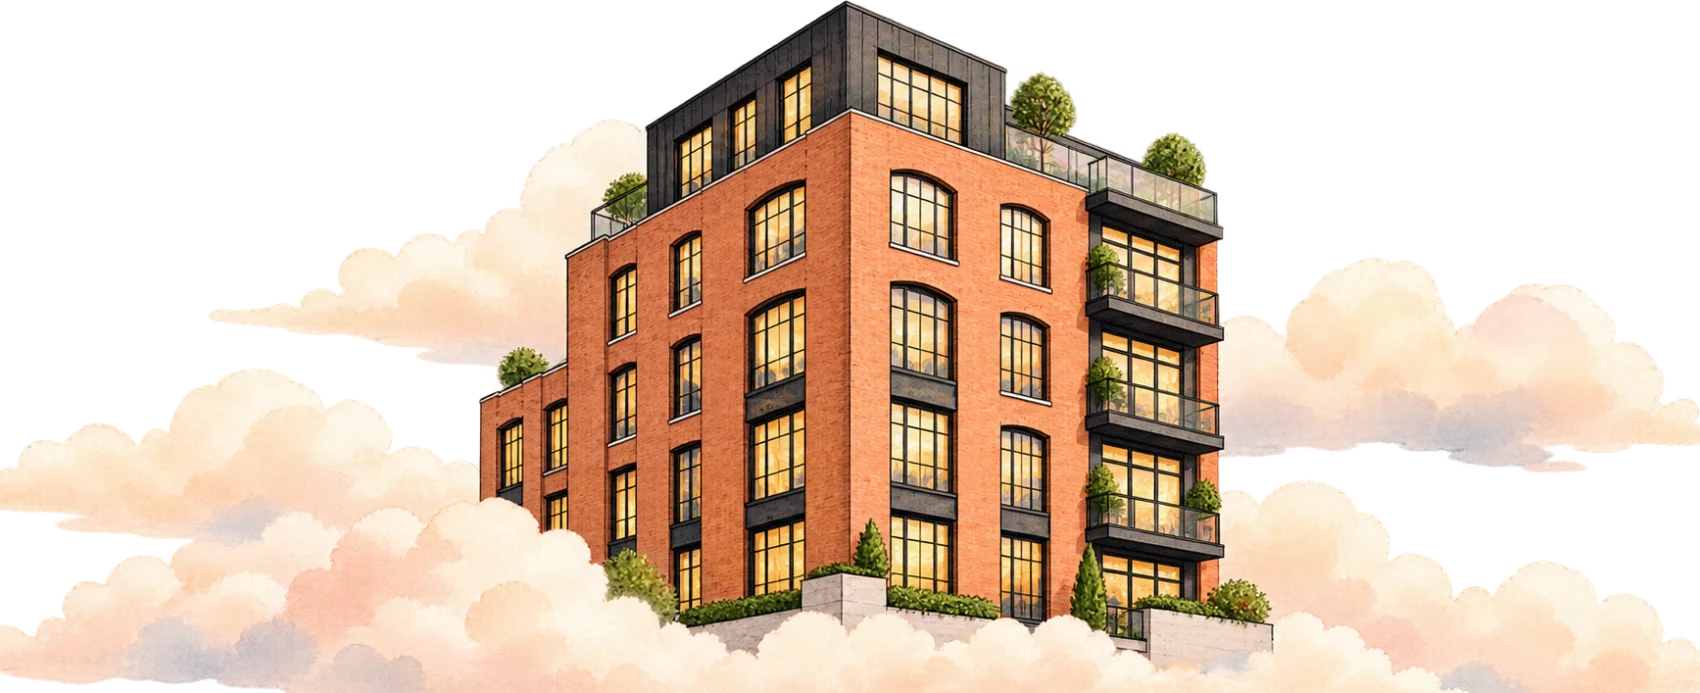
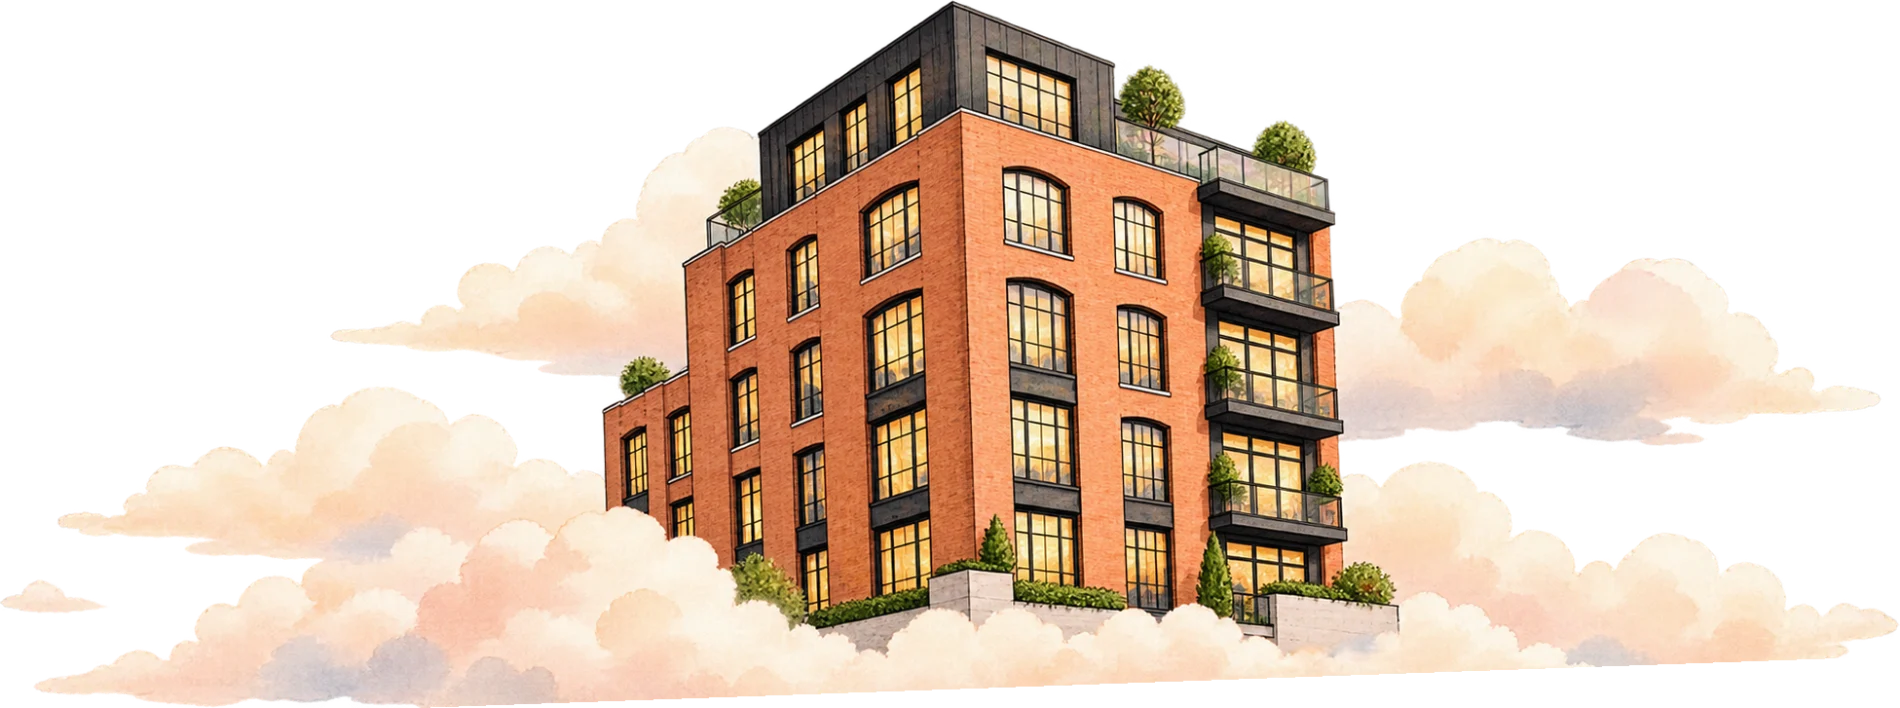
Dashboard loft: level, bigger, clouds whole to the end of the line
James, 2 Oct 2026: twisted slightly, a bit bigger still, the sides not
cut off.

- Turned 2 degrees anticlockwise: the base fell to the right and looked
  tipped on the level rule. The slant the turn leaves at the bottom edge
  sits under the line.
- His whole image again: no wisps trimmed, nothing faded.
- Pinned to the right edge (flushRight): the 166px seated inset was room
  for legs; it goes to the building, now 245 tall (from 208).
- PageHeader gains smallXlScale for 1280-1439 screens taller than 820:
  three quarters size there keeps the greeting on its line. The rule
  matches Applications at 1280x800, 1280x900, 1366, 1440 and 1920.

diff --git a/app/(os)/dashboard/page.tsx b/app/(os)/dashboard/page.tsx
@@ -85,26 +85,33 @@ export default function Dashboard() {
            which still leaves the greeting its one line. */
         /* 2 Oct 2026: James swapped the armchair scene for a brick loft
            floating on clouds ("I do love the properties ... lean more towards
-           that side"). Transparent PNG from Downloads, trimmed to its clouds
-           with only the stray wisps at either end taken off (7% left, 4%
-           right) and no faded edges (James asked to see them as drawn).
+           that side"). His transparent PNG, trimmed to its clouds and nothing
+           cut or faded at the ends, turned 2 degrees anticlockwise: the
+           building's base fell 2 degrees to the right and looked tipped on a
+           level rule ("needs to be just twisted slightly").
            The masthead is the standard 268, the same line as every other
            screen. The rule runs through the clouds just under the building's
-           base: it stands on the line and the lower clouds go under it. */
+           base: it stands on the line and the lower clouds (and the slant the
+           turn leaves at the bottom edge) go under it. */
         illustration="/illustrations/home/brick-loft-clouds.webp"
-        illustrationHeight={208}
-        illustrationAspect={2.4531}
+        illustrationHeight={245}
+        illustrationAspect={2.6836}
         /* Wide art: drawn from 1280px up only, so on a smaller laptop or a
            tablet the greeting keeps the width and the line stays level with
            every other screen - see artFromXl. */
         hideArtOnPhone
         artFromXl
+        /* A 1280 laptop with a tall screen has 160px less masthead than a
+           1440 one: three quarters size there keeps the greeting on its line. */
+        smallXlScale={0.75}
         seat={0.9}
         illustrationCrop
         lineBreak="none"
-        /* No inward nudge: the greeting's line runs right up to the art's
-           box, and the clouds need the clear space between them. */
-        illustrationNudge={0}
+        /* Pinned to the right edge. The seated inset (166px) is room for a
+           figure's legs to hang past the page's button; clouds have no legs,
+           so that room goes to the building instead ("a bit bigger still"),
+           and the clouds run out to the end of the line. */
+        flushRight
         /* Customise rides the search row — one line of chrome, not two.
            The agent's quick links sit to its right (components/QuickLinks):
            pills they picked themselves, and in customise mode the circle that

diff --git a/components/PageHeader.tsx b/components/PageHeader.tsx
@@ -148,6 +148,7 @@ export default function PageHeader({
   illustrationAspect,
   hideArtOnPhone = false,
   artFromXl = false,
+  smallXlScale,
   /**
    * Slide the artwork sideways, in pixels. Positive is right.
    *
@@ -292,6 +293,13 @@ export default function PageHeader({
    * The words get the whole width instead, and the line stays where it is.
    */
   artFromXl?: boolean;
+  /**
+   * Scale for 1280-1439px screens with room to spare (taller than 820). The
+   * shared steps draw full size from 1280, but a 1280 laptop has 160px less
+   * masthead than a 1440 one, and the dashboard's wide loft squeezed the
+   * greeting to three lines there (2 Oct 2026). Wide art only.
+   */
+  smallXlScale?: number;
   lineBreak?: LineBreak;
   seat?: number;
   seatCut?: { left: number; right: number };
@@ -449,6 +457,10 @@ export default function PageHeader({
             /* The short masthead reserves through its own variable; with the
                art not drawn below 1280 there is nothing to reserve for. */
             artFromXl ? `\n          @media (max-width: 1279.98px) { .${artClass} { --mast-short-reserve: 0px } }` : ""
+          }${
+            smallXlScale
+              ? `\n          @media (min-width: 1280px) and (max-width: 1439.98px) and (min-height: 821px) { .${artClass} { padding-right: ${Math.round(illustrationHeight * (illustrationAspect ?? 0.7) * smallXlScale) + inset[3] + 14}px } .os-mast-art.${artClass}-art { scale: ${smallXlScale} } }`
+              : ""
           }
         `}</style>
       )}
@@ -639,7 +651,7 @@ export default function PageHeader({
           <div
             className={`os-mast-art pointer-events-none absolute bottom-0 origin-bottom-right scale-[0.5] sm:scale-[0.68] lg:scale-[0.88] xl:scale-100 ${
               artFromXl ? "hidden xl:block " : hideArtOnPhone ? "hidden sm:block " : ""
-            }${
+            }${smallXlScale && artClass ? `${artClass}-art ` : ""}${
               flushRight
                 ? "right-0"
                 : seated
